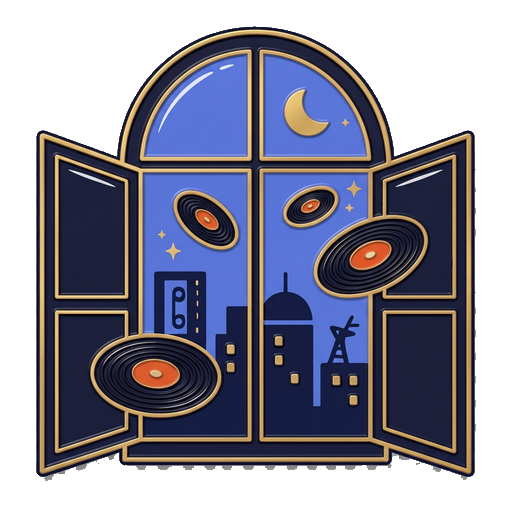
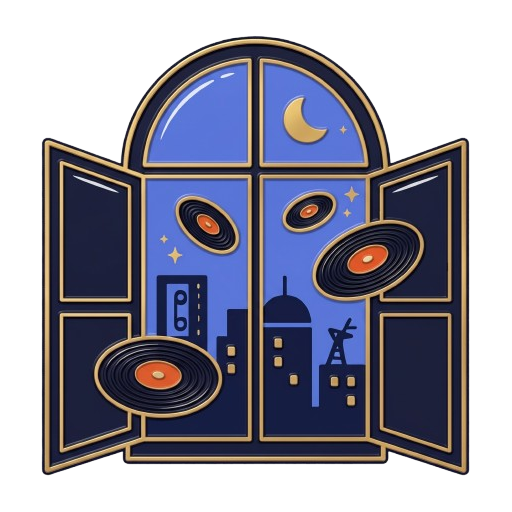
feat(achievements): new pin designs (C2/C5/C6/meta_scale) + fix share-card blank pin
- Add cut 512px designs: c2_limited_x25, c5_collectible_x15, c6_hot_in_wishlist, meta_scale
- Re-cut a1_first_record (Поехали) and a4_public_profile (Распахнул) from clean removebg sources
- Fix view-shot race: warm-up delay + double capture so async PNG pin renders in shared image
- Add reusable scripts/cut_achievement.py (alpha-aware: trim+resize or BFS flood cutout)

(cherry picked from commit e08c282f60e15e7ece34e34b9fbd0dcbc882d3ed)

Changed region(s): [[0.0625, 0.0312, 0.9375, 0.9375]]

diff --git a/Вертушка/Mobile/app/achievements.tsx b/Вертушка/Mobile/app/achievements.tsx
@@ -411,11 +411,13 @@ function DetailsSheet({
       // статический импорт ронял старт приложения. Тут падение ловит catch
       // ниже и шаринг деградирует до текстового.
       const { captureRef } = require('react-native-view-shot');
-      const uri = await captureRef(shareCardRef, {
-        format: 'png',
-        quality: 1,
-        result: 'tmpfile',
-      });
+      const opts = { format: 'png' as const, quality: 1, result: 'tmpfile' as const };
+      // Дизайн-пин рендерится через async <Image>. Без прогрева view-shot
+      // успевает снять кадр до декодирования картинки → пустой пин.
+      // Даём кадру отрисоваться и снимаем дважды (первый снимок — тёплый).
+      await new Promise((r) => setTimeout(r, 350));
+      await captureRef(shareCardRef, opts);
+      const uri = await captureRef(shareCardRef, opts);
       const available = await Sharing.isAvailableAsync();
       if (available) {
         await Sharing.shareAsync(uri, {

diff --git a/Вертушка/Mobile/assets/achievements/designs/index.ts b/Вертушка/Mobile/assets/achievements/designs/index.ts
@@ -13,9 +13,13 @@ export const DESIGN_PNGS: Record<string, ImageSourcePropType> = {
   b3_archivist: require('./b3_archivist.png'),
   b4_curator: require('./b4_curator.png'),
   b5_keeper: require('./b5_keeper.png'),
+  c2_limited_x25: require('./c2_limited_x25.png'),
   c3_collectible_x1: require('./c3_collectible_x1.png'),
+  c5_collectible_x15: require('./c5_collectible_x15.png'),
+  c6_hot_in_wishlist: require('./c6_hot_in_wishlist.png'),
   d3_country_x30: require('./d3_country_x30.png'),
   meta_foundation: require('./meta_foundation.png'),
+  meta_scale: require('./meta_scale.png'),
   r_self_titled: require('./r_self_titled.png'),
   r_thirty_three: require('./r_thirty_three.png'),
 };

diff --git a/Вертушка/scripts/cut_achievement.py b/Вертушка/scripts/cut_achievement.py
@@ -1,0 +1,68 @@
+#!/usr/bin/env python3
+"""Cut achievement pin PNG out of background → transparent 512×512.
+
+Usage: cut_achievement.py SRC.png DST.png
+- If SRC already has real transparency → just contain-fit to 512, keep alpha.
+- Else BFS flood-fill from border over a bright/low-saturation bg mask.
+"""
+import sys
+import numpy as np
+from PIL import Image
+from collections import deque
+
+SRC, DST = sys.argv[1], sys.argv[2]
+img = Image.open(SRC).convert("RGBA")
+arr = np.array(img)
+h, w = arr.shape[:2]
+alpha = arr[..., 3]
+
+def fit512(im):
+    im = im.copy()
+    im.thumbnail((512, 512), Image.LANCZOS)
+    canvas = Image.new("RGBA", (512, 512), (0, 0, 0, 0))
+    canvas.paste(im, ((512 - im.width) // 2, (512 - im.height) // 2), im)
+    return canvas
+
+# already transparent? (>2% fully-transparent pixels)
+if (alpha < 16).mean() > 0.02:
+    # trim transparent border then fit
+    ys, xs = np.where(alpha > 16)
+    if len(xs):
+        arr = arr[ys.min():ys.max()+1, xs.min():xs.max()+1]
+    fit512(Image.fromarray(arr, "RGBA")).save(DST)
+    print(f"{DST}: already-alpha, trimmed+resized")
+    sys.exit(0)
+
+# BFS cutout
+rgb = arr[..., :3].astype(np.int16)
+mx = rgb.max(axis=2); mn = rgb.min(axis=2)
+sat = mx - mn
+bg = (sat < 30) & (mn > 165)            # neutral & bright
+visited = np.zeros((h, w), bool)
+q = deque()
+for x in range(w):
+    for y in (0, h-1):
+        if bg[y, x]: q.append((y, x)); visited[y, x] = True
+for y in range(h):
+    for x in (0, w-1):
+        if bg[y, x] and not visited[y, x]: q.append((y, x)); visited[y, x] = True
+while q:
+    y, x = q.popleft()
+    for dy, dx in ((1,0),(-1,0),(0,1),(0,-1)):
+        ny, nx = y+dy, x+dx
+        if 0 <= ny < h and 0 <= nx < w and not visited[ny, nx] and bg[ny, nx]:
+            visited[ny, nx] = True; q.append((ny, nx))
+# halo grow 2px so anti-aliased fringe goes too
+out = visited.copy()
+for _ in range(2):
+    g = out.copy()
+    g[1:,:] |= out[:-1,:]; g[:-1,:] |= out[1:,:]
+    g[:,1:] |= out[:,:-1]; g[:,:-1] |= out[:,1:]
+    out = g & bg | visited
+arr[..., 3] = np.where(out, 0, 255).astype(np.uint8)
+cut_pct = 100 * out.mean()
+ys, xs = np.where(arr[..., 3] > 16)
+if len(xs):
+    arr = arr[ys.min():ys.max()+1, xs.min():xs.max()+1]
+fit512(Image.fromarray(arr, "RGBA")).save(DST)
+print(f"{DST}: BFS cut {cut_pct:.1f}%")
